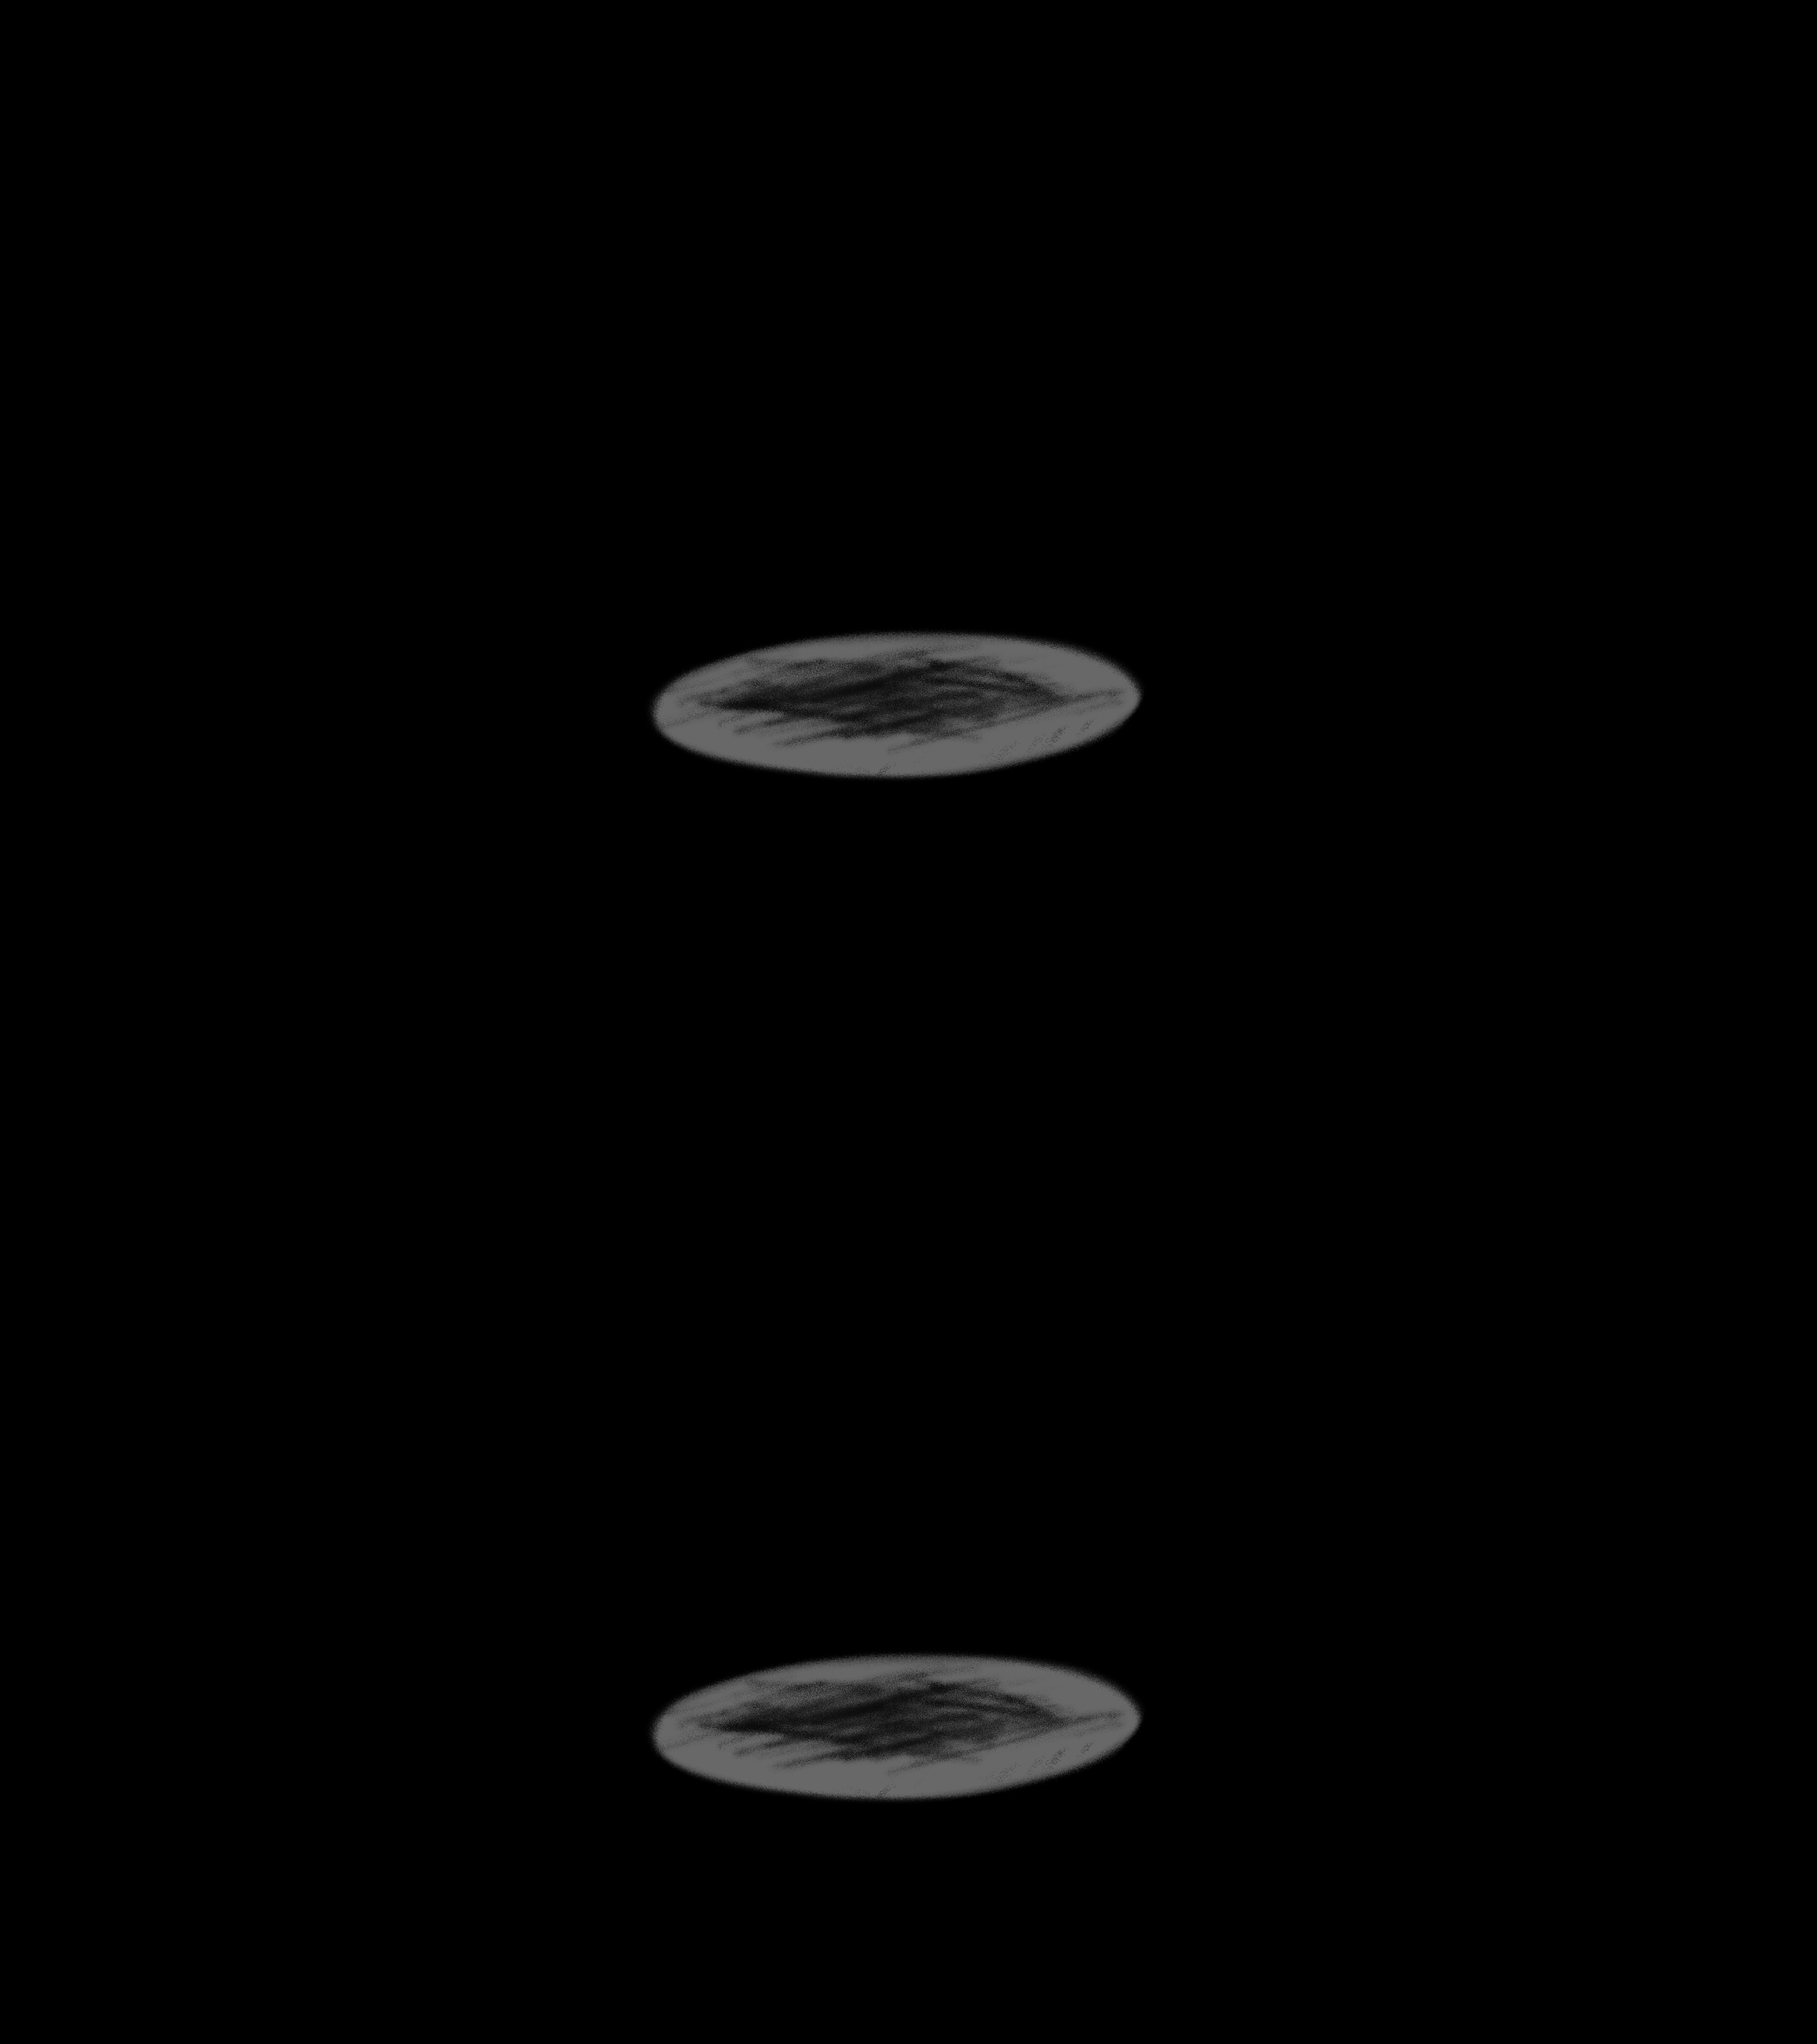
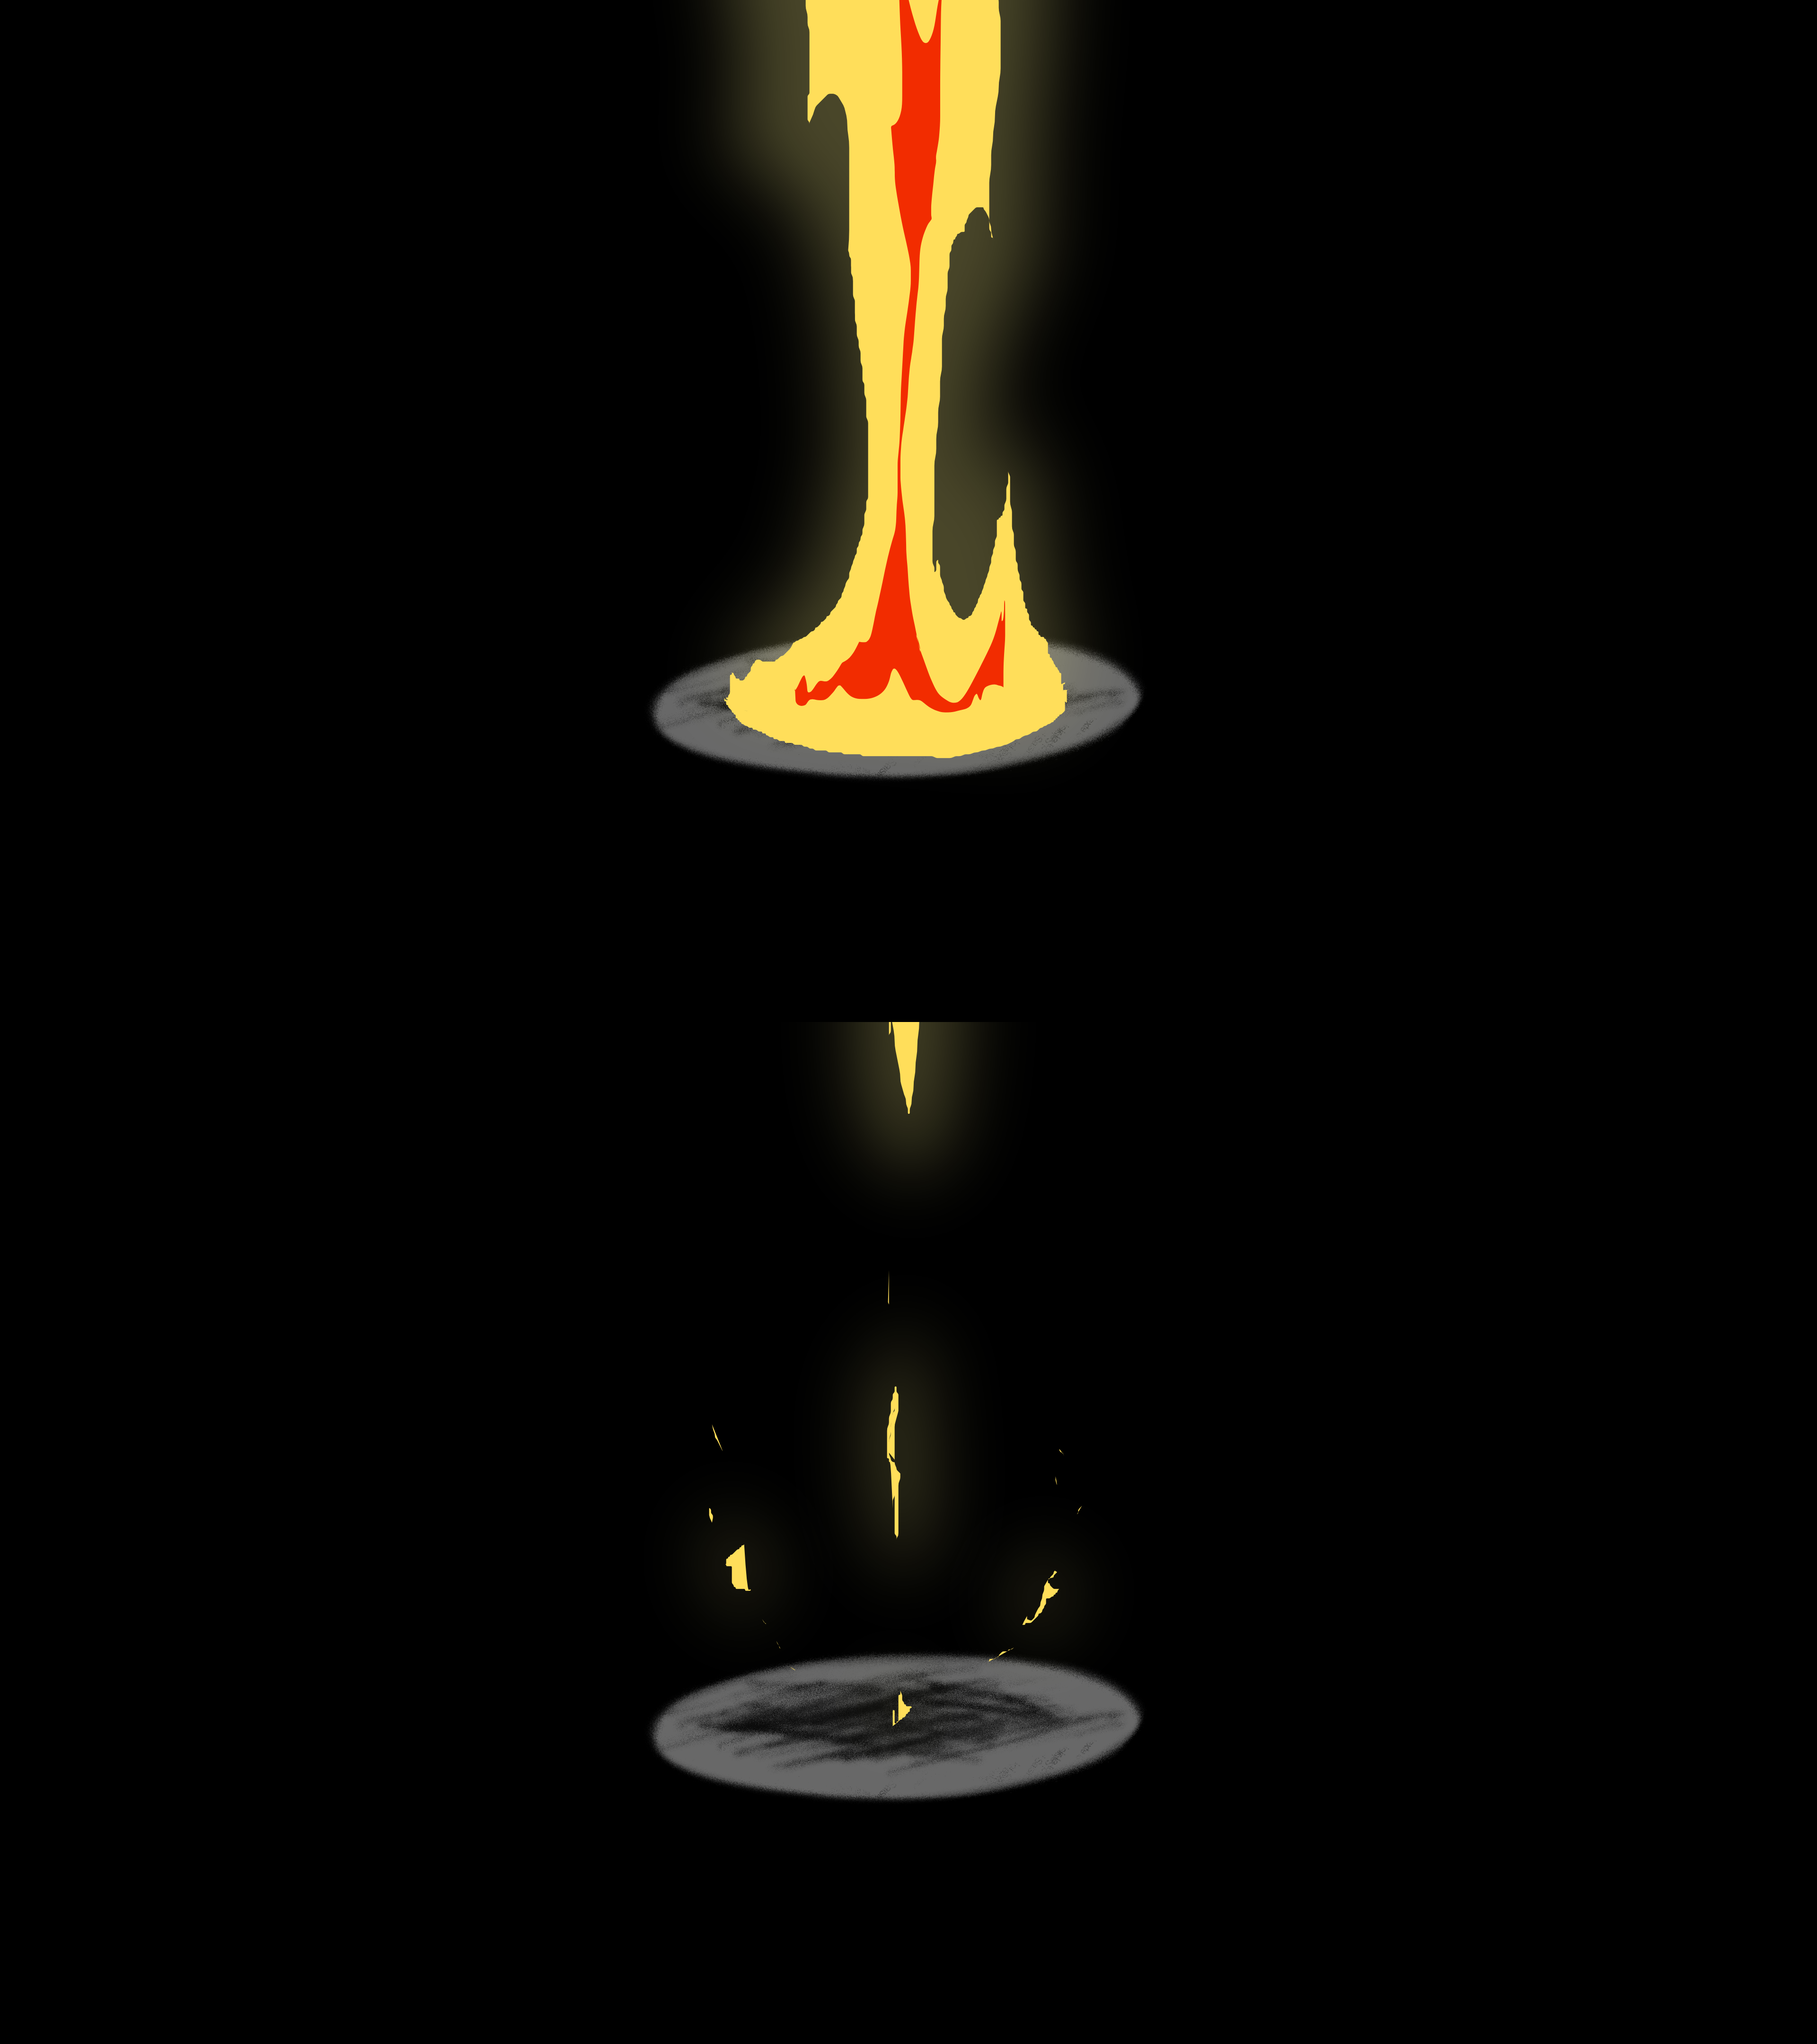
Fix bad ending animation and add rumble

Changed region(s): [[0.375, 0.0, 0.5938, 0.375], [0.4688, 0.6562, 0.5312, 0.75], [0.4688, 0.5, 0.5312, 0.5625]]

diff --git a/code/bits/GameOverEntity.cc b/code/bits/GameOverEntity.cc
@@ -132,9 +132,6 @@ namespace mm {
       animation.addTileset(game.resources.getTexture("images/animation/bad-ending/bad-ending-scene2-end-17.png"), gf::vec(1, 2), FrameRate, 2);
       animation.addTileset(game.resources.getTexture("images/animation/bad-ending/bad-ending-scene2-end-18.png"), gf::vec(1, 2), FrameRate, 2);
       animation.addTileset(game.resources.getTexture("images/animation/bad-ending/bad-ending-scene2-end-19.png"), gf::vec(1, 2), FrameRate, 2);
-      animation.addTileset(game.resources.getTexture("images/animation/bad-ending/bad-ending-scene2-end-20.png"), gf::vec(1, 2), FrameRate, 2);
-      animation.addTileset(game.resources.getTexture("images/animation/bad-ending/bad-ending-scene2-end-21.png"), gf::vec(1, 2), FrameRate, 2);
-      animation.addTileset(game.resources.getTexture("images/animation/bad-ending/bad-ending-scene2-end-22.png"), gf::vec(1, 2), FrameRate, 2);
       animation.setLoop(false);
       m_badEndingAnimations.emplace_back(std::move(animation));
     }
@@ -176,6 +173,13 @@ namespace mm {
       if (m_game.state.currentGameOverAnimation < m_badEndingAnimations.size()) {
         gf::AnimatedSprite animation;
         animation.setAnimation(m_badEndingAnimations[m_game.state.currentGameOverAnimation]);
+
+        // Handle rumble
+        if (m_game.state.currentGameOverAnimation == 1 || m_game.state.currentGameOverAnimation == 3) {
+          const float rumble = m_game.random.computeUniformFloat(-0.01f, 0.01f);
+          animation.setPosition(WorldSize * rumble);
+        }
+
         animation.draw(target, states);
       } else {
         gf::Sprite background(m_backgroundTexture);

diff --git a/code/bits/GameOverScene.cc b/code/bits/GameOverScene.cc
@@ -29,18 +29,20 @@ namespace mm {
   }
 
   void GameOverScene::doProcessEvent(gf::Event& event) {
-    switch (event.type) {
-    case gf::EventType::MouseMoved:
-      m_widgets.pointTo(m_game.getRenderer().mapPixelToCoords(event.mouseCursor.coords, getWorldView()));
-      break;
+    if (m_entity.hasFinishedCutScene()) {
+      switch (event.type) {
+      case gf::EventType::MouseMoved:
+        m_widgets.pointTo(m_game.getRenderer().mapPixelToCoords(event.mouseCursor.coords, getWorldView()));
+        break;
 
-    case gf::EventType::MouseButtonPressed:
-      m_widgets.pointTo(m_game.getRenderer().mapPixelToCoords(event.mouseButton.coords, getWorldView()));
-      m_widgets.triggerAction();
-      break;
+      case gf::EventType::MouseButtonPressed:
+        m_widgets.pointTo(m_game.getRenderer().mapPixelToCoords(event.mouseButton.coords, getWorldView()));
+        m_widgets.triggerAction();
+        break;
 
-    default:
-      break;
+      default:
+        break;
+      }
     }
   }
 
